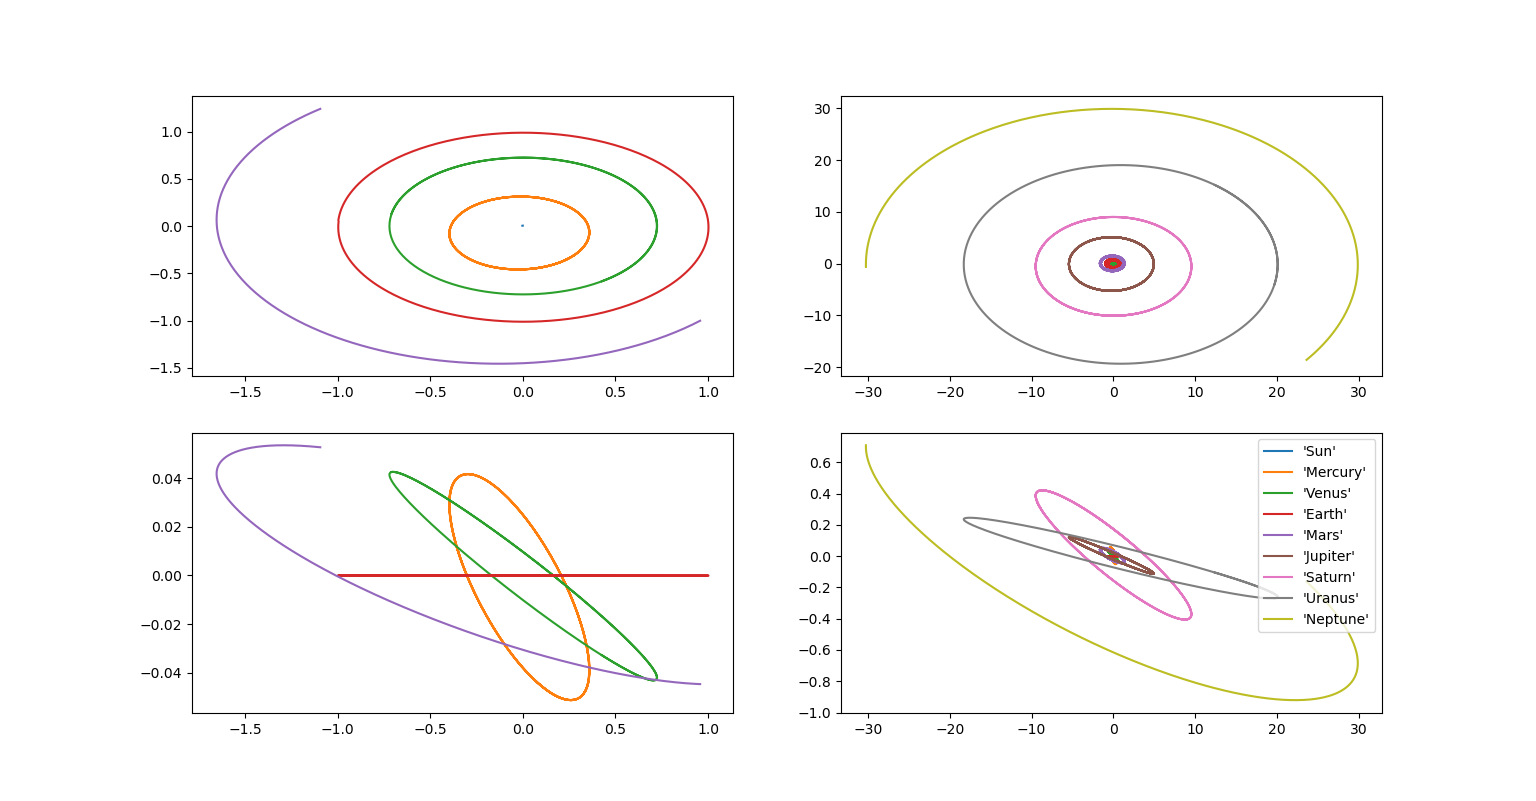
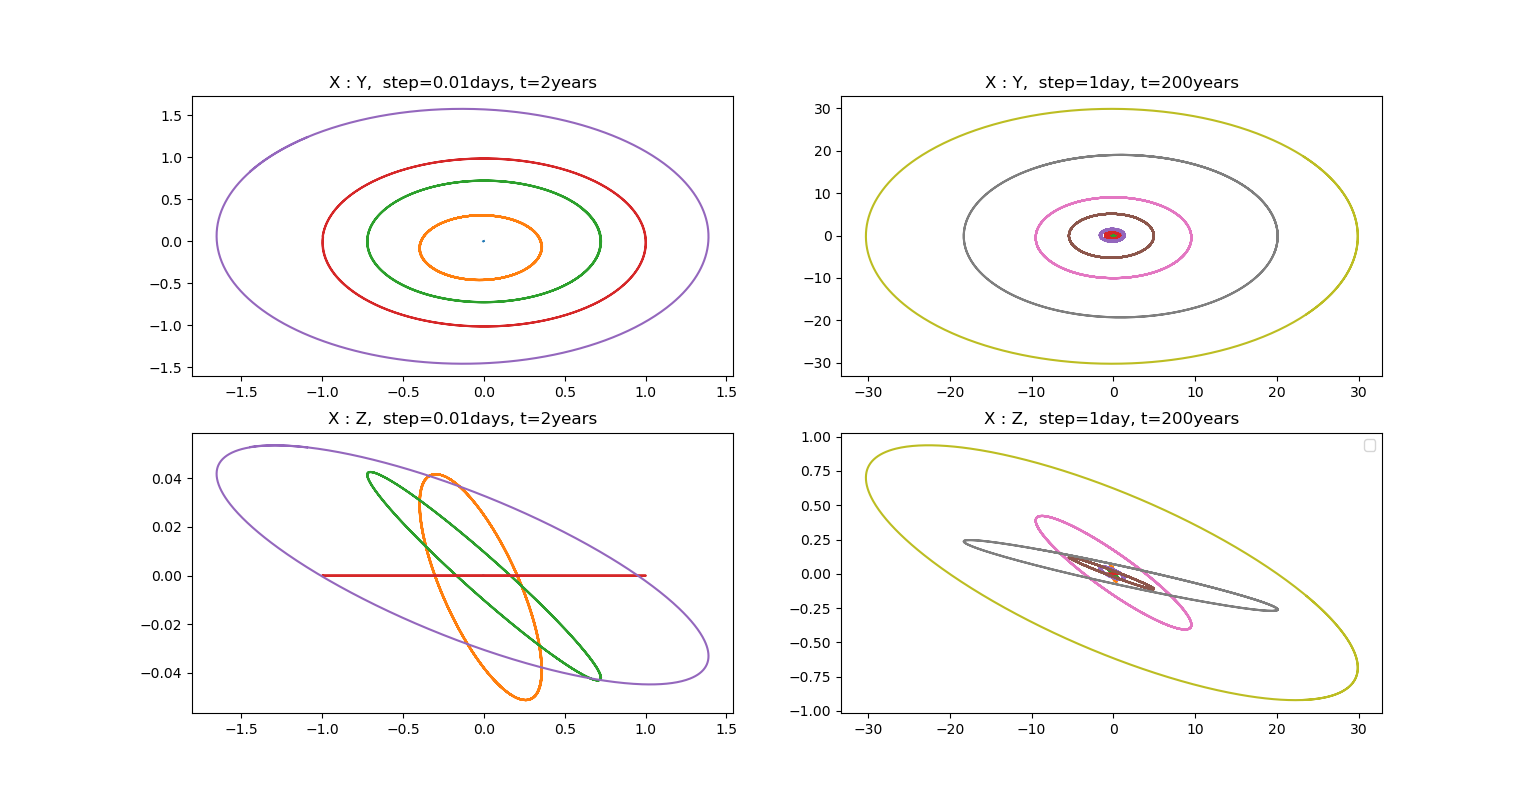
finished 07

diff --git a/07/orrery.py b/07/orrery.py
@@ -4,7 +4,8 @@ from progress.bar import Bar
 import matplotlib.pyplot as plt
 
 
-# Commonly referenced:
+# Commonly referenced, but not used here:
+# Sebastian will ask Joachim about the difference of the two versions
 def leap_frog_step_legacy(tn, yn, h, df_dt):
 
     vel_half = yn[1] + 0.5 * h * df_dt(tn, yn[0])
@@ -16,7 +17,7 @@ def leap_frog_step_legacy(tn, yn, h, df_dt):
     return [pos, vel]
 
 
-# Introduced in the lecture:
+# Introduced in the lecture, is used here:
 def leap_frog_step(tn, yn, h, df_dt):
 
     pos_half = yn[0] + 0.5 * h * yn[1]
@@ -94,17 +95,24 @@ def df_dt_planets(t, positions, masses=m):
     return acceleration
 
 
+# Plotting
 step = 100
 fig1 = plt.figure()
 fig1, axs1 = plt.subplots(2, 2)
 
-print("Processing 1 year of the solar system:")
-timeline, planets = ode_solver(0, y_0, df_dt_planets, 0.01, 365*100, leap_frog_step)
+print("Processing 2 years of the solar system:")
+timeline, planets = ode_solver(0, y_0, df_dt_planets, 0.01, 365*200, leap_frog_step)
 
+# Plot inner solar system
+axs1[0][0].set_title("X : Y,  step=0.01days, t=2years")
+axs1[1][0].set_title("X : Z,  step=0.01days, t=2years")
 for i in range(5):
     axs1[0][0].plot(planets[::step, 0, i, 0], planets[::step, 0, i, 1])
     axs1[1][0].plot(planets[::step, 0, i, 0], planets[::step, 0, i, 2])
 
+plt.legend(names, loc=1)
+
+# plot x, y, z positions against time
 fig2, axs2 = plt.subplots(3, 1)
 for i in range(5):
     axs2[0].set_title("X positions")
@@ -114,34 +122,39 @@ for i in range(5):
     axs2[2].set_title("Z positions")
     axs2[2].plot(timeline[::step], planets[::step, 0, i, 2])
 
-print("Processing 100 years of the solar system with lower precision:")
-timeline, planets = ode_solver(0, y_0, df_dt_planets, 1, 365*100, leap_frog_step)
+plt.legend(names, loc=1)
 
+print("Processing 200 years of the solar system with lower precision:")
+timeline, planets = ode_solver(0, y_0, df_dt_planets, 1, 365*200, leap_frog_step)
+
+axs1[0][1].set_title("X : Y,  step=1day, t=200years")
+axs1[1][1].set_title("X : Z,  step=1day, t=200years")
+# Plot outer solar system
 for i in range(n_planets):
     axs1[0][1].plot(planets[::step, 0, i, 0], planets[::step, 0, i, 1])
     axs1[1][1].plot(planets[::step, 0, i, 0], planets[::step, 0, i, 2])
 
-plt.legend(names, loc=1)
 
 fig1 = plt.figure()
+
+# Plot planets in 3D
 ax = fig1.add_subplot(111, projection='3d')
 for i in range(n_planets):
     ax.plot(planets[::step, 0, i, 0], planets[::step, 0, i, 1], planets[::step, 0, i, 2])
 
 plt.legend(names, loc=1)
 
-# Diagnosis plots of individual coordinates, positions and velocities
 fig3, axs3 = plt.subplots(3, 1)
 # Add spacing between subplots
 
 # Outer solar system
-for i in range(4):
+for i in range(5, 9):
     axs3[0].set_title("X positions")
-    axs3[0].plot(timeline[::step], planets[::step, 0, i+5, 0])
+    axs3[0].plot(timeline[::step], planets[::step, 0, i, 0])
     axs3[1].set_title("Y positions")
-    axs3[1].plot(timeline[::step], planets[::step, 0, i+5, 1])
+    axs3[1].plot(timeline[::step], planets[::step, 0, i, 1])
     axs3[2].set_title("Z positions")
-    axs3[2].plot(timeline[::step], planets[::step, 0, i+5, 2])
+    axs3[2].plot(timeline[::step], planets[::step, 0, i, 2])
 
-plt.legend(names, loc=1)
+plt.legend(names[5:9], loc=1)
 plt.show()
